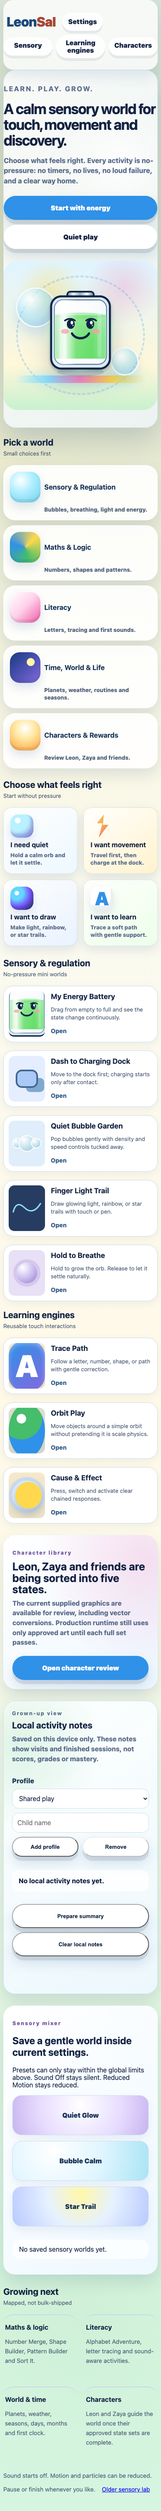
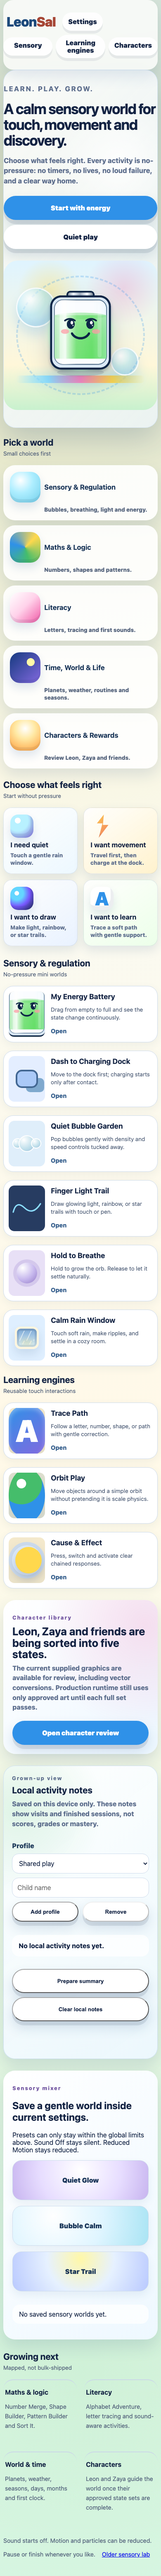
Add Calm Rain Window sensory proof

Changed region(s): [[0.0, 0.0, 0.9846, 0.9993], [0.8923, 0.9681, 0.9231, 0.9993]]

diff --git a/v2-calm-rain-window.html b/v2-calm-rain-window.html
@@ -1,0 +1,187 @@
+<!doctype html>
+<html lang="en">
+<head>
+  <meta charset="utf-8">
+  <meta name="viewport" content="width=device-width, initial-scale=1">
+  <title>Calm Rain Window</title>
+  <link rel="stylesheet" href="v2-proofs.css">
+</head>
+<body class="v2-experience">
+  <main class="game-shell">
+    <header class="game-topbar">
+      <a class="icon-button" href="v2-home.html" aria-label="Home">‹</a>
+      <div class="game-title"><strong>Calm Rain Window</strong><span>Touch the window and let the rain settle.</span></div>
+      <button class="icon-button" id="settingsToggle" type="button" aria-label="Sensory settings" aria-expanded="false">⚙</button>
+      <div class="settings-popover" id="settings"></div>
+    </header>
+
+    <section class="game-scene rain-world" id="stage" aria-label="Calm rain window play area">
+      <canvas class="rain-canvas" id="rainCanvas" aria-label="Calm rain window. Tap, click, or press the window to make gentle ripples."></canvas>
+      <div class="rain-room" aria-hidden="true">
+        <span class="rain-lamp"></span>
+        <span class="rain-window-frame"></span>
+        <span class="rain-sill"></span>
+        <span class="rain-plant"></span>
+      </div>
+      <p class="scene-status" id="status">Rain is gentle.</p>
+      <div class="drawer-controls">
+        <button id="makeRipple" class="scene-button" type="button">Ripple</button>
+        <button id="reset" class="scene-button" type="button">Reset</button>
+        <button class="mode-pill" data-rain="light" type="button" aria-pressed="true">Light</button>
+        <button class="mode-pill" data-rain="steady" type="button">Steady</button>
+      </div>
+    </section>
+  </main>
+
+  <script src="v2-engine.js"></script>
+  <script src="js/v2-game-shell.js"></script>
+  <script>
+    const settings = new LeonSalV2.SensorySettings();
+    const motion = new LeonSalV2.MotionEngine(settings);
+    const audio = new LeonSalV2.AudioEngine(settings);
+    const stage = document.querySelector('#stage');
+    const canvas = document.querySelector('#rainCanvas');
+    const ctx = canvas.getContext('2d');
+    const status = document.querySelector('#status');
+    let mode = 'light';
+    let drops = [];
+    let ripples = [];
+    let glow = 0.35;
+
+    new LeonSalV2.SettingsPanel(document.querySelector('#settings'), settings, { keys: LeonSalGameShell.sensoryKeys });
+    document.querySelector('#settingsToggle').addEventListener('click', () => {
+      const panel = document.querySelector('#settings');
+      const open = panel.dataset.open !== 'true';
+      panel.dataset.open = String(open);
+      document.querySelector('#settingsToggle').setAttribute('aria-expanded', String(open));
+    });
+
+    function resize() {
+      const rect = canvas.getBoundingClientRect();
+      const scale = Math.min(2, window.devicePixelRatio || 1);
+      canvas.width = Math.max(1, Math.round(rect.width * scale));
+      canvas.height = Math.max(1, Math.round(rect.height * scale));
+      ctx.setTransform(scale, 0, 0, scale, 0, 0);
+      seed();
+    }
+
+    function dropCount() {
+      const base = mode === 'steady' ? 72 : 42;
+      if (settings.value.calmMode) return Math.min(28, base);
+      return settings.value.particles === 'off' ? 0 : settings.particleCount(base);
+    }
+
+    function seed() {
+      const rect = canvas.getBoundingClientRect();
+      const count = dropCount();
+      drops = Array.from({ length: count }, () => ({
+        x: Math.random() * rect.width,
+        y: Math.random() * rect.height,
+        length: 18 + Math.random() * 30,
+        speed: 62 + Math.random() * (mode === 'steady' ? 70 : 38),
+        alpha: 0.24 + Math.random() * 0.3
+      }));
+      draw(0);
+    }
+
+    function addRipple(x, y) {
+      const rect = canvas.getBoundingClientRect();
+      ripples.push({ x: x ?? rect.width * 0.5, y: y ?? rect.height * 0.5, radius: 8, age: 0, life: settings.allowsMotion() ? 1.1 : 0.55 });
+      glow = 0.68;
+      status.textContent = 'Soft ripple.';
+      audio.tone('tap');
+    }
+
+    function draw(dt) {
+      const rect = canvas.getBoundingClientRect();
+      ctx.clearRect(0, 0, rect.width, rect.height);
+      const sky = ctx.createLinearGradient(0, 0, 0, rect.height);
+      sky.addColorStop(0, '#547fb6');
+      sky.addColorStop(0.52, '#8eb9d9');
+      sky.addColorStop(1, '#d7eef7');
+      ctx.fillStyle = sky;
+      ctx.fillRect(0, 0, rect.width, rect.height);
+
+      ctx.save();
+      ctx.globalCompositeOperation = 'screen';
+      const halo = ctx.createRadialGradient(rect.width * 0.5, rect.height * 0.42, 20, rect.width * 0.5, rect.height * 0.42, rect.width * 0.54);
+      halo.addColorStop(0, `rgba(255,232,150,${glow})`);
+      halo.addColorStop(1, 'rgba(255,232,150,0)');
+      ctx.fillStyle = halo;
+      ctx.fillRect(0, 0, rect.width, rect.height);
+      ctx.restore();
+
+      if (settings.allowsMotion()) {
+        const speed = settings.speedFactor();
+        for (const drop of drops) {
+          drop.y += drop.speed * speed * dt;
+          drop.x += Math.sin((drop.y + drop.length) * 0.015) * speed * 0.5;
+          if (drop.y > rect.height + drop.length) {
+            drop.y = -drop.length;
+            drop.x = Math.random() * rect.width;
+          }
+        }
+      }
+
+      ctx.lineCap = 'round';
+      for (const drop of drops) {
+        ctx.globalAlpha = settings.allowsMotion() ? drop.alpha : drop.alpha * 0.65;
+        ctx.strokeStyle = '#e9f9ff';
+        ctx.lineWidth = 2.2;
+        ctx.beginPath();
+        ctx.moveTo(drop.x, drop.y);
+        ctx.lineTo(drop.x - 8, drop.y + drop.length);
+        ctx.stroke();
+      }
+      ctx.globalAlpha = 1;
+
+      ripples = ripples.filter((ripple) => ripple.age < ripple.life);
+      for (const ripple of ripples) {
+        if (settings.allowsMotion()) {
+          ripple.age += dt;
+          ripple.radius += 70 * dt;
+        } else {
+          ripple.age = ripple.life * 0.52;
+          ripple.radius = 36;
+        }
+        const alpha = Math.max(0, 1 - (ripple.age / ripple.life));
+        ctx.globalAlpha = alpha * 0.65;
+        ctx.strokeStyle = '#ffffff';
+        ctx.lineWidth = 3;
+        ctx.beginPath();
+        ctx.arc(ripple.x, ripple.y, ripple.radius, 0, Math.PI * 2);
+        ctx.stroke();
+      }
+      ctx.globalAlpha = 1;
+      glow += (0.35 - glow) * Math.min(1, dt * 2.8);
+      stage.style.setProperty('--rain-glow', String(glow));
+    }
+
+    const removeTick = motion.add((dt) => draw(dt));
+    new LeonSalV2.InputEngine(canvas).onPointer({
+      down: ({ x, y }) => {
+        const rect = canvas.getBoundingClientRect();
+        addRipple(x - rect.left, y - rect.top);
+      }
+    });
+    document.querySelector('#makeRipple').addEventListener('click', () => addRipple());
+    document.querySelector('#reset').addEventListener('click', () => {
+      ripples = [];
+      glow = 0.35;
+      status.textContent = 'Rain is gentle.';
+      seed();
+    });
+    document.querySelectorAll('[data-rain]').forEach((button) => button.addEventListener('click', () => {
+      mode = button.dataset.rain;
+      document.querySelectorAll('[data-rain]').forEach((item) => item.setAttribute('aria-pressed', String(item === button)));
+      status.textContent = mode === 'steady' ? 'Rain is steady.' : 'Rain is gentle.';
+      seed();
+    }));
+    settings.on('settings-change', seed);
+    window.addEventListener('resize', resize);
+    resize();
+    const gameShell = new LeonSalGameShell({ settings, motions: [motion], audio: [audio], resources: [{ destroy: removeTick }], reset: () => { ripples = []; glow = 0.35; seed(); }, gameId: 'calm-rain-window' });
+    window.__rainProofState = () => ({ mode, drops: drops.length, ripples: ripples.length, motion: settings.allowsMotion(), calmMode: settings.value.calmMode });
+  </script>
+</body>
+</html>

diff --git a/v2-proofs.css b/v2-proofs.css
@@ -1447,6 +1447,23 @@ body[data-calm="true"] .hub-art {
 .bubble-plants { position: absolute; inset: auto 0 0 0; height: 24%; background: radial-gradient(ellipse at 15% 100%, rgba(69,189,107,.5), transparent 34%), radial-gradient(ellipse at 82% 100%, rgba(47,145,232,.25), transparent 34%); pointer-events: none; }
 .drawer-controls { position: absolute; right: 16px; bottom: 16px; z-index: 4; display: flex; flex-wrap: wrap; gap: 8px; justify-content: flex-end; }
 
+.rain-world { padding: 0; background: radial-gradient(circle at 50% 72%, rgba(255, 226, 143, .24), transparent 30%), linear-gradient(180deg, #dfeeff, #fff8df); }
+.rain-canvas { position: absolute; inset: clamp(18px, 4vw, 36px); width: calc(100% - clamp(18px, 4vw, 36px) * 2); height: calc(100% - clamp(18px, 4vw, 36px) * 2); border: 14px solid #fff6df; border-radius: 34px; box-shadow: inset 0 0 0 8px rgba(70, 105, 145, .15), 0 28px 60px rgba(35, 75, 118, .22); background: #85b9dc; touch-action: none; z-index: 1; }
+.rain-room { position: absolute; inset: 0; pointer-events: none; z-index: 2; }
+.rain-window-frame { position: absolute; inset: clamp(18px, 4vw, 36px); border: 14px solid #fff6df; border-radius: 34px; box-shadow: inset 0 0 0 8px rgba(70, 105, 145, .12); }
+.rain-window-frame::before, .rain-window-frame::after { content: ""; position: absolute; background: rgba(255, 246, 223, .88); box-shadow: 0 0 20px rgba(255, 246, 223, .25); }
+.rain-window-frame::before { left: 50%; top: 0; bottom: 0; width: 12px; transform: translateX(-50%); }
+.rain-window-frame::after { left: 0; right: 0; top: 50%; height: 12px; transform: translateY(-50%); }
+.rain-sill { position: absolute; left: 9%; right: 9%; bottom: 9%; height: 42px; border-radius: 24px; background: linear-gradient(180deg, #fff8e8, #f4d597); box-shadow: 0 16px 22px rgba(78, 68, 45, .16); }
+.rain-lamp { position: absolute; right: 9%; bottom: 12%; width: 82px; height: 82px; border-radius: 50% 50% 44% 44%; background: radial-gradient(circle at 45% 32%, #fff9b9, #ffd84d 68%, #ffb03b); box-shadow: 0 0 calc(40px + var(--rain-glow, .35) * 40px) rgba(255, 216, 77, .55); }
+.rain-lamp::after { content: ""; position: absolute; left: 36%; right: 36%; bottom: -34px; height: 40px; border-radius: 12px; background: #5c6d8c; }
+.rain-plant { position: absolute; left: 10%; bottom: 12%; width: 76px; height: 92px; border-radius: 16px 16px 22px 22px; background: linear-gradient(180deg, #ff9d7b, #df6b52); box-shadow: 0 14px 20px rgba(69, 59, 49, .16); }
+.rain-plant::before, .rain-plant::after { content: ""; position: absolute; bottom: 55px; width: 70px; height: 44px; border-radius: 50%; background: radial-gradient(circle at 35% 34%, #bff79a, #45bd6b 72%); }
+.rain-plant::before { left: -27px; transform: rotate(-26deg); }
+.rain-plant::after { right: -27px; transform: rotate(26deg); }
+.rain-world .scene-status { left: 50%; top: 42px; bottom: auto; transform: translateX(-50%); z-index: 4; background: rgba(255, 255, 255, .82); }
+.rain-world .drawer-controls { z-index: 5; }
+
 .trail-world { background: radial-gradient(circle at 50% 30%, rgba(56,109,203,.32), transparent 36%), linear-gradient(180deg, #132343, #1d2f68 52%, #243b7a); }
 .trail-starscape { position: absolute; inset: 0; opacity: .8; background-image: radial-gradient(circle, rgba(255,255,255,.9) 0 1px, transparent 1.8px), radial-gradient(circle, rgba(255,216,77,.85) 0 1.4px, transparent 2px); background-size: 58px 58px, 91px 91px; background-position: 0 0, 20px 26px; }
 .trail-world .scene-status { color: rgba(255,255,255,.78); }
@@ -1542,6 +1559,10 @@ body[data-calm="true"] .trail-starscape, body[data-calm="true"] .battery-spark, 
 .trail-card svg { width: 100%; height: 100%; }
 .breathe-card .game-art { background: #e8e0f6; }
 .home-orb { width: 94px; height: 94px; border-radius: 50%; background: radial-gradient(circle at 30% 25%, #fff, #c6b7ed 55%, #937ac6); box-shadow: 0 0 0 13px #d4c8ec; }
+.rain-card .game-art { background: #dfefff; }
+.home-rain { width: 108px; height: 98px; border: 8px solid #fff6df; border-radius: 22px; background: linear-gradient(180deg, #7da8d3, #d8f1ff); box-shadow: inset 0 0 0 5px rgba(19,35,67,.12), 0 12px 22px rgba(35,75,118,.12); position: relative; overflow: hidden; }
+.home-rain::before { content: ""; position: absolute; inset: 13%; background-image: linear-gradient(115deg, transparent 0 38%, rgba(255,255,255,.78) 39% 45%, transparent 46% 100%); background-size: 17px 24px; opacity: .82; }
+.home-rain::after { content: ""; position: absolute; left: 18%; right: 18%; bottom: 14%; height: 18%; border-radius: 999px; background: rgba(255,216,77,.58); filter: blur(8px); }
 .planned-worlds { display: grid; grid-template-columns: repeat(4, 1fr); gap: 18px; }
 .planned-worlds article { border-top: 2px solid #cbd8e7; padding: 4px; }
 .planned-worlds h3 { font-size: 1rem; margin-bottom: 8px; }
@@ -1607,6 +1628,7 @@ body[data-calm="true"] .connection-status { transition: none; }
   .bubble-card i:nth-child(2) { width: 40px; height: 40px; margin-left: -10px; }
   .bubble-card i:last-child { margin-left: -10px; }
   .home-orb { width: 50px; height: 50px; box-shadow: 0 0 0 8px #d4c8ec; }
+  .home-rain { width: 58px; height: 54px; border-width: 5px; border-radius: 14px; }
 }
 
 .game-art img { width:180px; height:180px; object-fit:contain; }

diff --git a/v2-home.html b/v2-home.html
@@ -58,7 +58,7 @@
     <section class="need-picker" aria-labelledby="need-title">
       <div class="world-section-heading"><h2 id="need-title">Choose what feels right</h2><span>Start without pressure</span></div>
       <div class="need-grid">
-        <a href="v2-hold-to-breathe.html" class="need-card calm-need"><span aria-hidden="true"></span><strong>I need quiet</strong><small>Hold a calm orb and let it settle.</small></a>
+        <a href="v2-calm-rain-window.html" class="need-card calm-need"><span aria-hidden="true"></span><strong>I need quiet</strong><small>Touch a gentle rain window.</small></a>
         <a href="v2-dash-dock.html" class="need-card move-need"><span aria-hidden="true"></span><strong>I want movement</strong><small>Travel first, then charge at the dock.</small></a>
         <a href="v2-light-trail.html" class="need-card draw-need"><span aria-hidden="true"></span><strong>I want to draw</strong><small>Make light, rainbow, or star trails.</small></a>
         <a href="v2-trace-engine.html" class="need-card learn-need"><span aria-hidden="true"></span><strong>I want to learn</strong><small>Trace a soft path with gentle support.</small></a>
@@ -73,6 +73,7 @@
         <a class="world-game bubble-card" href="v2-bubble-garden.html"><span class="game-art" aria-hidden="true"><i></i><i></i><i></i></span><h3>Quiet Bubble Garden</h3><p>Pop bubbles gently with density and speed controls tucked away.</p><span class="play-label">Open</span></a>
         <a class="world-game trail-card" href="v2-light-trail.html"><span class="game-art" aria-hidden="true"><svg viewBox="0 0 240 120"><path d="M30 85 Q50 5 105 57 T210 30" fill="none" stroke="#8cdeff" stroke-width="9" stroke-linecap="round"/></svg></span><h3>Finger Light Trail</h3><p>Draw glowing light, rainbow, or star trails with touch or pen.</p><span class="play-label">Open</span></a>
         <a class="world-game breathe-card" href="v2-hold-to-breathe.html"><span class="game-art" aria-hidden="true"><span class="home-orb"></span></span><h3>Hold to Breathe</h3><p>Hold to grow the orb. Release to let it settle naturally.</p><span class="play-label">Open</span></a>
+        <a class="world-game rain-card" href="v2-calm-rain-window.html"><span class="game-art" aria-hidden="true"><span class="home-rain"></span></span><h3>Calm Rain Window</h3><p>Touch soft rain, make ripples, and settle in a cozy room.</p><span class="play-label">Open</span></a>
       </div>
     </section>
 

diff --git a/index.html b/index.html
@@ -63,7 +63,7 @@
     <section class="need-picker" aria-labelledby="quick-start-title">
       <div class="world-section-heading"><h2 id="quick-start-title">Start by feeling</h2><span>No pressure</span></div>
       <div class="need-grid">
-        <a href="v2-hold-to-breathe.html" class="need-card calm-need"><span aria-hidden="true"></span><strong>I need quiet</strong><small>Hold a calm orb and let it settle.</small></a>
+        <a href="v2-calm-rain-window.html" class="need-card calm-need"><span aria-hidden="true"></span><strong>I need quiet</strong><small>Touch a gentle rain window.</small></a>
         <a href="v2-dash-dock.html" class="need-card move-need"><span aria-hidden="true"></span><strong>I want movement</strong><small>Travel first, then charge at the dock.</small></a>
         <a href="v2-bubble-garden.html" class="need-card draw-need"><span aria-hidden="true"></span><strong>I want to tap</strong><small>Pop gentle bubbles at your pace.</small></a>
         <a href="v2-light-trail.html" class="need-card learn-need"><span aria-hidden="true"></span><strong>I want to draw</strong><small>Make light, rainbow or stars.</small></a>

diff --git a/sw.js b/sw.js
@@ -8,6 +8,7 @@ const SAFE_ASSETS = [
   './v2-energy-battery.html',
   './v2-dash-dock.html',
   './v2-bubble-garden.html',
+  './v2-calm-rain-window.html',
   './v2-light-trail.html',
   './v2-hold-to-breathe.html',
   './v2-trace-engine.html',

diff --git a/docs/LEONSAL_COMPLETION_CHECKLIST.md b/docs/LEONSAL_COMPLETION_CHECKLIST.md
@@ -47,6 +47,8 @@
 - [x] Add explicit shared game-shell resource ownership and destroy coverage so future engines can register disposable resources and clean them up exactly once.
 - [x] Add pinned npm check scripts, reproducible lockfile and a read-only GitHub Actions verification workflow for the current static V2 proof architecture.
 - [x] Add the five-world V2 home entry map so children see Sensory, Maths, Literacy, Time/World and Characters choices before the detailed proof list.
+- [x] Make the default `index.html` a V2-first sensory landing page, preserve the older long page at `sensory-lab.html`, and add browser evidence for the default route.
+- [x] Add `Calm Rain Window` as the next no-pressure V2 sensory proof, using Canvas rain/ripples, shared settings, shared session controls, reduced-motion and calm-mode support.
 
 These changes remain preview work. They do not approve character art, claim production deployment, or complete all foundation contracts.
 
@@ -92,7 +94,7 @@ Status below is the existing registry status, not an assertion of release comple
 | 4 | Finger Light Trail | accepted | v2-light-trail.html |
 | 5 | Hold to Breathe | accepted | v2-hold-to-breathe.html |
 | 6 | Firefly Catch | specified | Not implemented |
-| 7 | Calm Rain Window | specified | Not implemented |
+| 7 | Calm Rain Window | proof | v2-calm-rain-window.html |
 | 8 | Snow Globe | specified | Not implemented |
 | 9 | Star Shower | specified | Not implemented |
 | 10 | Growing Garden | specified | Not implemented |
